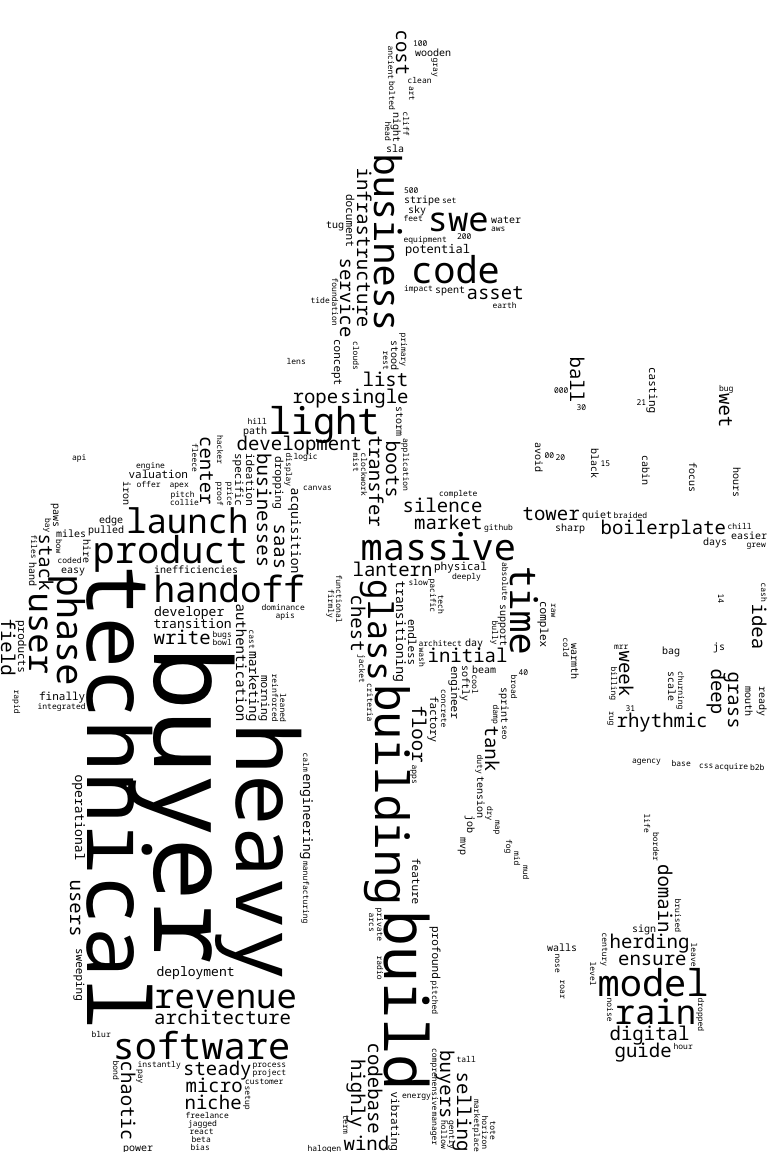
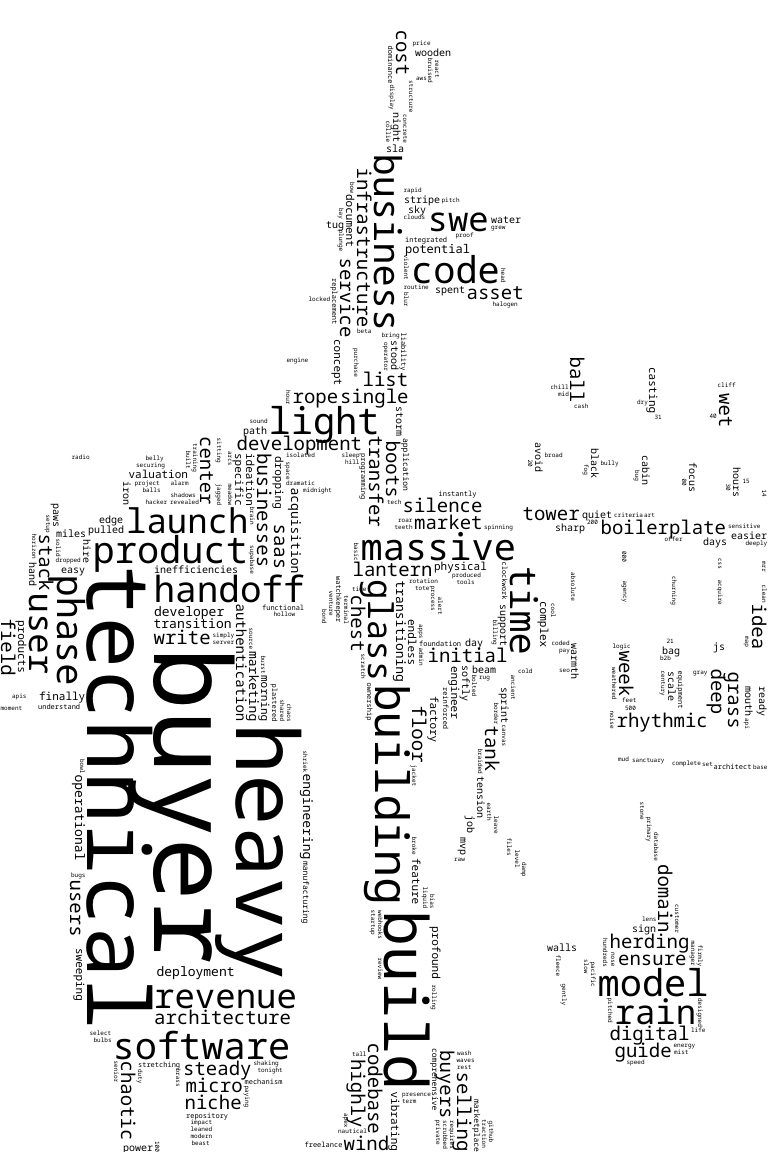
feat(wordcloud): use fixed 6px minimum font size

diff --git a/internal/effects/wordcloud/sizing_test.go b/internal/effects/wordcloud/sizing_test.go
@@ -39,30 +39,20 @@ func TestResolveMaxFontSizeUsesLayout(t *testing.T) {
 	if err != nil {
 		t.Fatalf("resolveMaxFontSize() error = %v", err)
 	}
-	if got < minimumFontSize(mask, cfg) {
-		t.Fatalf("resolveMaxFontSize() = %v, want >= minimum %v", got, minimumFontSize(mask, cfg))
+	if got < minimumFontSize(cfg) {
+		t.Fatalf("resolveMaxFontSize() = %v, want >= minimum %v", got, minimumFontSize(cfg))
 	}
 	if got > float64(mask.Height) {
 		t.Fatalf("resolveMaxFontSize() = %v, want <= probe upper bound %d", got, mask.Height)
 	}
 }
 
-func TestMinimumFontSizeUsesImageScaleOrExplicitOverride(t *testing.T) {
-	for _, tc := range []struct {
-		width, height int
-		want          float64
-	}{
-		{300, 300, 6},
-		{1000, 800, 8},
-		{4000, 4000, 40},
-	} {
-		mask := &imageutil.Mask{Width: tc.width, Height: tc.height}
-		if got := minimumFontSize(mask, NewConfig()); got != tc.want {
-			t.Errorf("image %dx%d minimum = %v, want %v", tc.width, tc.height, got, tc.want)
-		}
-		if got := minimumFontSize(mask, NewConfig(WithMinFontSize(9))); got != 9 {
-			t.Errorf("explicit minimum = %v, want 9", got)
-		}
+func TestMinimumFontSizeUsesFixedDefaultOrExplicitOverride(t *testing.T) {
+	if got := minimumFontSize(NewConfig()); got != 6 {
+		t.Errorf("default minimum = %v, want 6", got)
+	}
+	if got := minimumFontSize(NewConfig(WithMinFontSize(9))); got != 9 {
+		t.Errorf("explicit minimum = %v, want 9", got)
 	}
 }
 

diff --git a/internal/effects/wordcloud/sizing.go b/internal/effects/wordcloud/sizing.go
@@ -9,13 +9,12 @@ import (
 	"github.com/santiagoa58/image-play/internal/textutil"
 )
 
-// minimumFontSize uses the same floor for every word in an image. An explicit
-// positive minimum overrides the image-relative default.
-func minimumFontSize(mask *imageutil.Mask, cfg Config) float64 {
+// minimumFontSize uses a fixed 6px floor unless the caller sets an override.
+func minimumFontSize(cfg Config) float64 {
 	if cfg.MinFontSize > 0 {
 		return cfg.MinFontSize
 	}
-	return math.Max(6, math.Round(0.01*float64(min(mask.Width, mask.Height))))
+	return 6
 }
 
 // resolveMaxFontSize returns the maximum font size used for frequency scaling.
@@ -37,7 +36,7 @@ func resolveMaxFontSize(
 	if mask == nil || mask.Height <= 0 {
 		return 0, errors.New("cannot determine maximum font size without a valid mask")
 	}
-	minSize := minimumFontSize(mask, cfg)
+	minSize := minimumFontSize(cfg)
 
 	candidates := wordHeap.ToSortedSlice()
 	if len(candidates) == 0 {

diff --git a/internal/effects/wordcloud/config.go b/internal/effects/wordcloud/config.go
@@ -19,8 +19,7 @@ type Config struct {
 	// FontPath points to the TTF/OTF font used for measurement and rendering.
 	FontPath string
 
-	// MinFontSize overrides the image-relative minimum when positive. Zero
-	// uses max(6px, 1% of the image's shorter side).
+	// MinFontSize overrides the 6px minimum when positive. Zero uses 6px.
 	MinFontSize float64
 	// MaxFontSize overrides automatic maximum-size calibration when positive.
 	// Zero lets the layout determine a sensible maximum from the image shape.

diff --git a/internal/effects/wordcloud/wordcloud.go b/internal/effects/wordcloud/wordcloud.go
@@ -47,7 +47,7 @@ func Generate(cfg Config) error {
 		return fmt.Errorf("prepare mask: %w", err)
 	}
 	defer mask.Close()
-	minFontSize := minimumFontSize(mask, cfg)
+	minFontSize := minimumFontSize(cfg)
 	if cfg.MaxFontSize > 0 && cfg.MaxFontSize < minFontSize {
 		return fmt.Errorf("maximum font size %.1fpx is below the resolved minimum %.1fpx", cfg.MaxFontSize, minFontSize)
 	}

diff --git a/docs/wordcloud-baseline.md b/docs/wordcloud-baseline.md
@@ -30,12 +30,13 @@ Inspect the PNG outputs at their native dimensions as well as resized previews.
 CI's seven-day artifact retention means the baseline visual outputs may need
 to be regenerated from this commit for a later side-by-side review.
 
-## Replacement results
+## Initial replacement results
 
 The replacement branch was measured with the same CI workflow at commit
 `14edae5` ([run 36298769804](https://github.com/santiagoa58/image-play/actions/runs/36298769804)).
-The floor is `max(6 px, round(1% of the shorter image dimension))`; the maximum
-still comes from the image and the two most frequent words.
+This initial version used `max(6 px, round(1% of the shorter image dimension))`
+as its minimum. The maximum still came from the image and the two most
+frequent words.
 
 | Input | Automatic min | Automatic max | Placed | Skipped | Horizontal | Vertical | Total time |
 | --- | ---: | ---: | ---: | ---: | ---: | ---: | ---: |
@@ -45,16 +46,30 @@ still comes from the image and the two most frequent words.
 | `keeks_no_bckgrnd.png` | 6 px | 75 px | 77 | 423 | 41 | 36 | 0.98 s |
 
 The timings are single CI runs on the same workflow, rather than repeated
-benchmarks. The new search is much faster on these examples. It places fewer
-words in three of the four images because it finds the largest fitting size
-for each word, leaving less space for later words; the larger minimum on two
-images contributes as well. Every skipped word has no legal placement at its
-minimum size in either orientation with the current rectangular footprint.
+benchmarks. The new search is much faster on these examples. The larger minimum
+on the two larger images caused many of their words to be skipped.
+
+## Fixed 6 px minimum
+
+The final default uses 6 px on every image. These counts are from a local run
+with OpenCV 4.10, using the same inputs, font, and 500 candidate words. The
+automatic maximum was unchanged when the minimum changed.
+
+| Input | Automatic max | Placed | Skipped | Horizontal | Vertical |
+| --- | ---: | ---: | ---: | ---: | ---: |
+| `couple_tour.jpg` | 106 px | 371 | 129 | 171 | 200 |
+| `deepseek-logo-icon.png` | 44 px | 98 | 402 | 82 | 16 |
+| `gen-img-couple.png` | 116 px | 428 | 72 | 244 | 184 |
+| `keeks_no_bckgrnd.png` | 75 px | 77 | 423 | 41 | 36 |
+
+Every skipped word has no legal placement at 6 px in either allowed orientation
+with the current rectangular footprint. Repeated local runs found similar
+generation times between the adaptive and fixed minimum; the fixed size did
+not cause a consistent slowdown.
 
 Full-size [before](assets/placement-comparison/before) and
-[after](assets/placement-comparison/after) PNGs were regenerated locally from
-the baseline and replacement commits with the same inputs, font, and OpenCV
-4.10. Both versions retain recognizable silhouettes. The replacement has
-larger prominent words and more open areas, particularly in `gen-img-couple`.
-Its orientation mix shifts toward vertical words. These are visible artistic
-tradeoffs to review alongside the exact-fit and timing gains.
+[after](assets/placement-comparison/after) PNGs use the same inputs, font, and
+OpenCV 4.10. The final `after` PNGs use the fixed 6 px minimum. Both versions
+retain recognizable silhouettes. The replacement favors larger prominent
+words and has a higher share of vertical words; review the visual balance
+alongside the exact-fit and timing gains.

diff --git a/README.md b/README.md
@@ -51,9 +51,9 @@ go run ./cmd/mosaic \
 
 Current defaults include 0/90-degree placement, logarithmic frequency scaling,
 rectangular word footprints, an automatic maximum font size, and up to 500
-candidate words. The minimum size is the larger of 6 px and 1% of the image's
-shorter side. The candidate limit is a source pool: words that cannot fit at
-the minimum size in either orientation are skipped.
+candidate words. The default minimum size is 6 px for every image. The
+candidate limit is a source pool: words that cannot fit at the minimum size in
+either orientation are skipped.
 
 ### Pipeline
 
@@ -108,10 +108,10 @@ region's occupied fraction ranks legal positions; it never rules out a fit.
 
 ## Placement behavior
 
-Words are processed in frequency order. The default minimum is computed once
-from image dimensions; a positive `MinFontSize` overrides it. The default
-maximum is calibrated against the image by probing the most important words in
-a fresh layout; a positive `MaxFontSize` overrides that calibration. Frequency
+Words are processed in frequency order. The default minimum is 6 px for every
+image; a positive `MinFontSize` overrides it. The default maximum is calibrated
+against the image by probing the most important words in a fresh layout; a
+positive `MaxFontSize` overrides that calibration. Frequency
 maps words logarithmically into this range. When a desired size does not fit,
 placement binary-searches whole-pixel font sizes down to the minimum.
 
